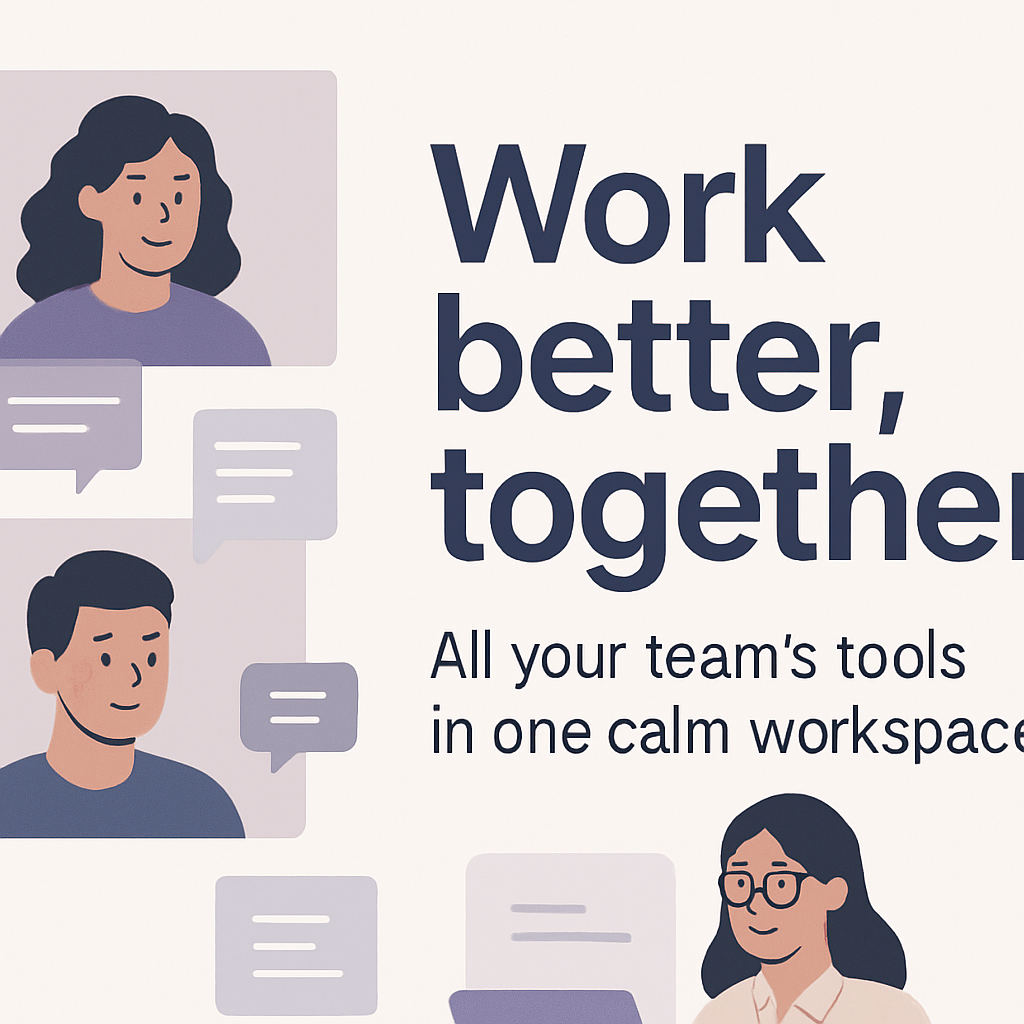
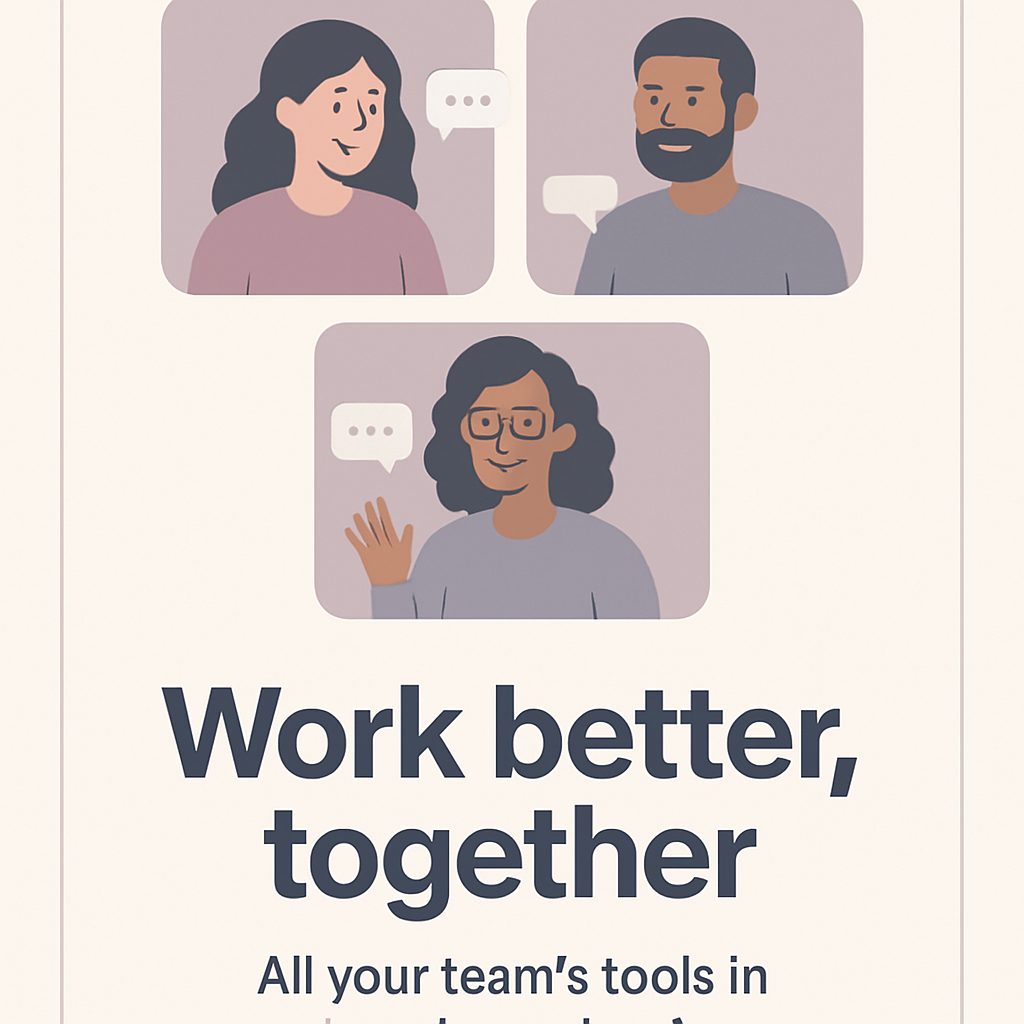
feat: adjust StimulusImage and StimulusLightbox component styles

diff --git a/apps/web/components/interview/stimulus-display.tsx b/apps/web/components/interview/stimulus-display.tsx
@@ -104,8 +104,8 @@ function StimulusImage({ url, large }: { url?: string; large?: boolean }) {
           crossOrigin="anonymous"
           onLoad={() => setStatus("loaded")}
           onError={() => setStatus("error")}
-          className={`w-full rounded-sm object-contain ${
-            large ? "max-h-[80vh]" : "max-h-[60vh]"
+          className={`h-auto max-w-full rounded-sm object-contain ${
+            large ? "w-full" : "w-auto max-h-[60vh]"
           } ${status === "loaded" ? "opacity-100" : "opacity-0"}`}
         />
       )}
@@ -138,7 +138,7 @@ function StimulusLightbox({ stimulus, onClose }: { stimulus: Stimulus; onClose: 
       onClick={(event) => {
         if (event.target === ref.current) onClose()
       }}
-      className="m-auto w-[min(92vw,960px)] rounded-lg bg-ink-0 p-0 shadow-lg backdrop:bg-ink-900/60"
+      className="m-auto flex max-h-[90vh] w-[min(92vw,960px)] flex-col overflow-hidden rounded-lg bg-ink-0 p-0 shadow-lg backdrop:bg-ink-900/60"
     >
       <div className="flex items-center justify-between border-b border-ink-100 px-5 py-3">
         <span className="text-caption font-medium uppercase tracking-wider text-ink-400">
@@ -153,7 +153,7 @@ function StimulusLightbox({ stimulus, onClose }: { stimulus: Stimulus; onClose: 
           关闭
         </button>
       </div>
-      <div className="flex items-center justify-center p-5">
+      <div className="flex min-h-0 flex-1 items-start justify-center overflow-y-auto p-5">
         <StimulusBody stimulus={stimulus} large />
       </div>
     </dialog>